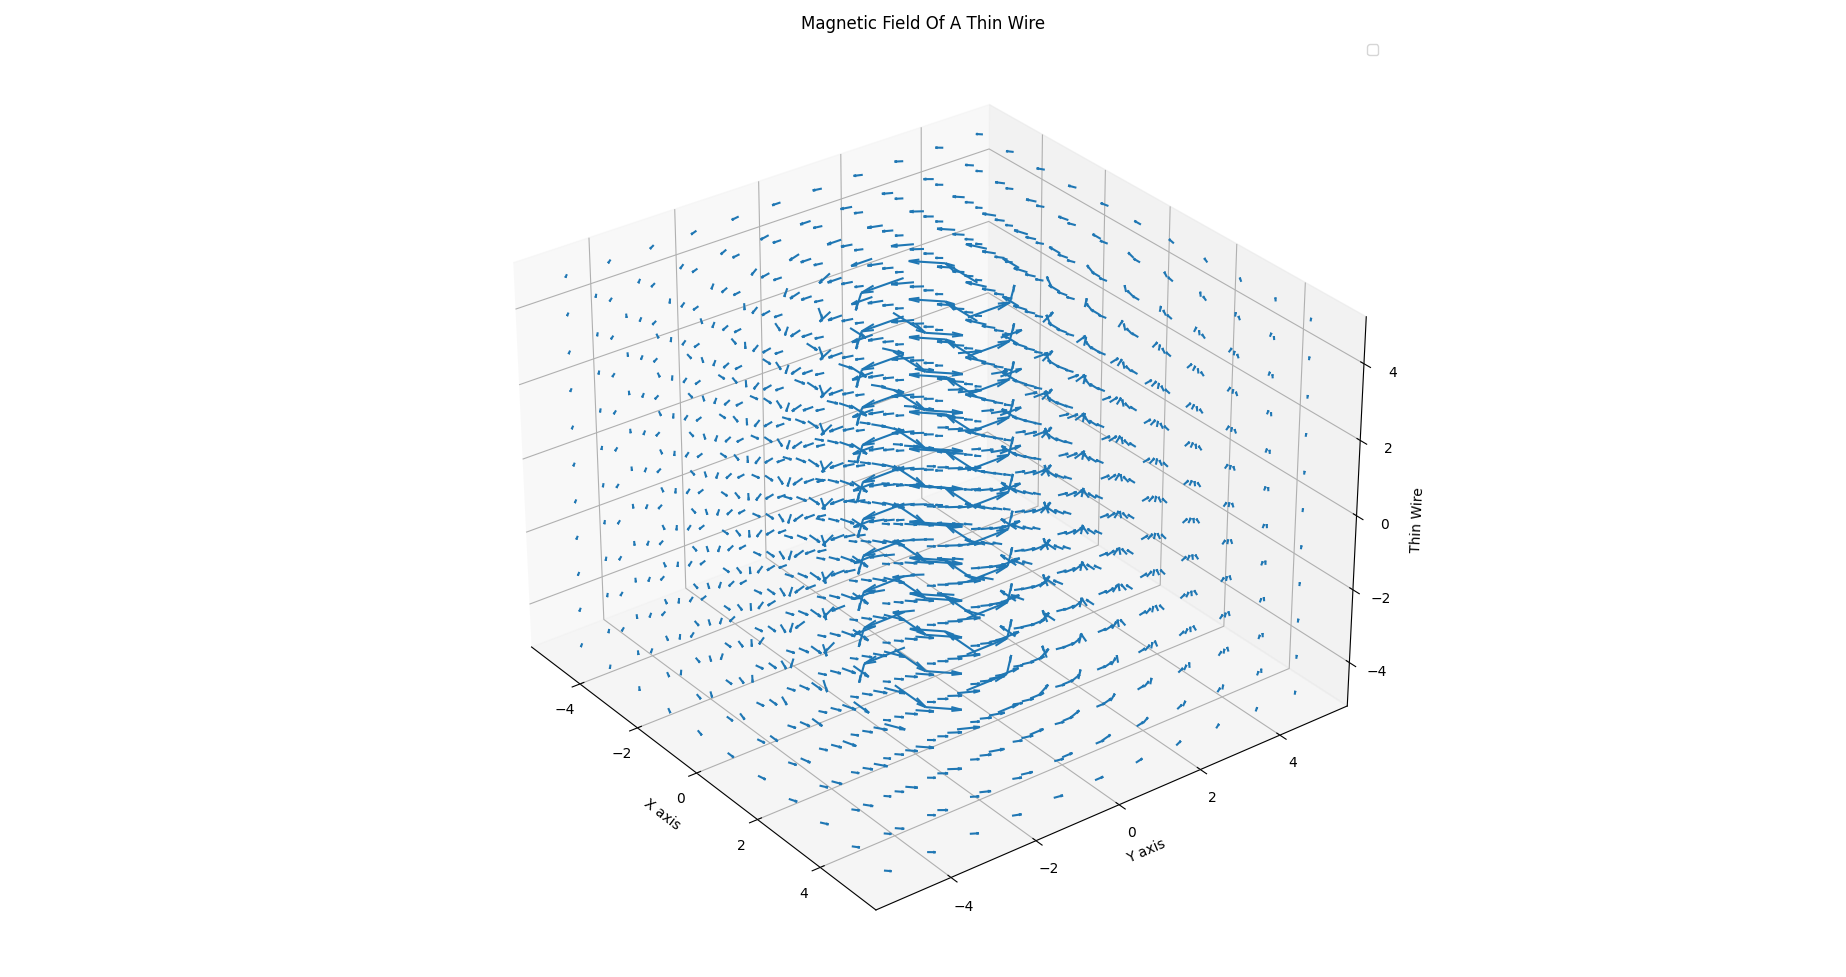
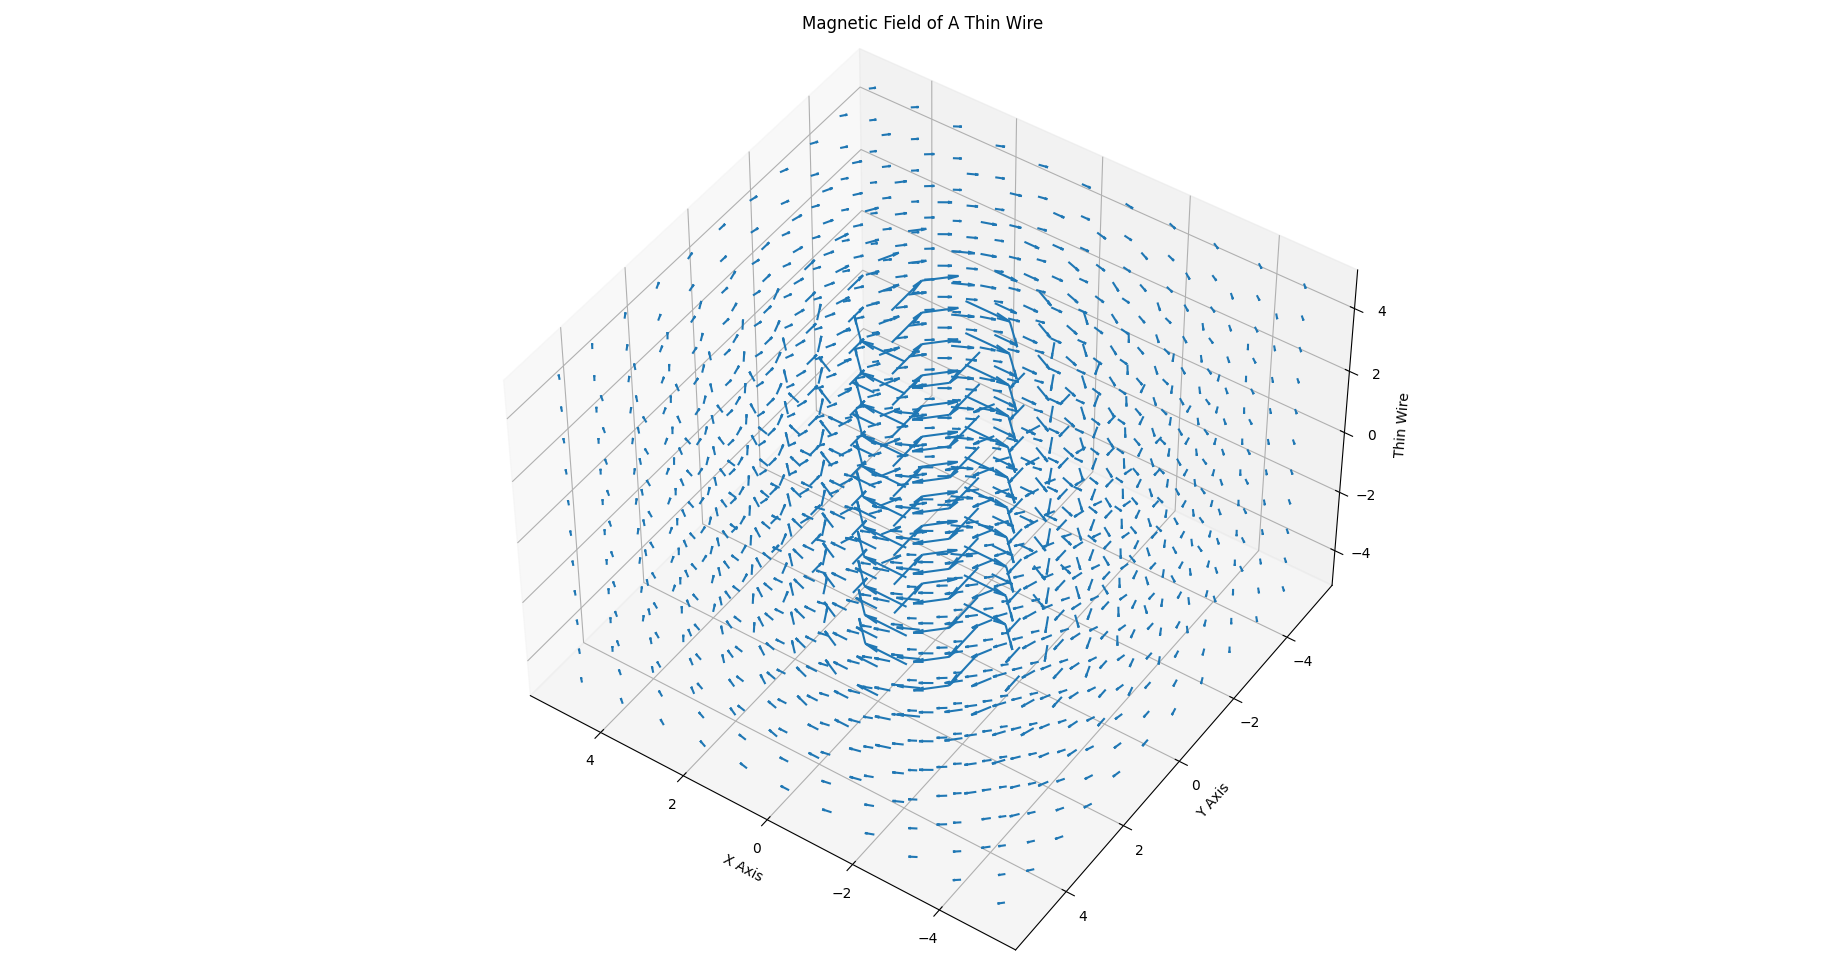
sixth week

diff --git a/DAQ/FeasibilityStudy/document.tex b/DAQ/FeasibilityStudy/document.tex
@@ -1,0 +1,67 @@
+\documentclass[12pt,a4paper]{report}
+\usepackage[utf8]{inputenc}
+\usepackage[T1]{fontenc}
+\usepackage{amsmath}
+\usepackage{amssymb}
+\usepackage{makeidx}
+\usepackage{graphicx}
+\usepackage{float}
+\usepackage{gensymb}
+\usepackage{lmodern,textcomp}
+\title{Temperature Measurement of An FDM 3D Printer Hotend with a PTC
+Thermistor}
+\author{Metin Oktay Yılmaz}
+\begin{document}
+    \maketitle
+
+    \section*{Introduction}
+    An FDM 3D printer can utilize a variety of plastics ranging from PLA to
+    ABS, even TPU. Succesful printing requires a stable temperature at the
+    hotend and build plate. This study will investigate the feasibility of a
+    possible feedback control setup for hotend temperature control.
+
+    \section*{Setup}
+    Following is the moderately-detailed flow diagram of control of a 3D
+    printer hotend:
+    \begin{figure}[H]
+        \centering
+        \includegraphics[scale=0.4]{diagram.png}
+        \caption{The feedback loop that controls a hotend's temperature}
+    \end{figure}
+
+    The feedback loop works as follows:
+    \begin{itemize}
+        \item[1.] The user or the G-Code sets a target temperature for
+        controller.
+        \item[2.] Controller reads the hotend's temperature and calculates the
+        required PWM duty cycle, then applies it to the FET.
+        \item[3.] FET delivers electrical energy to the hotend. This could
+        range from 0 Joules to as many as power supply can withhold. Hotend
+        gains or loses temperature accordingly.
+        \item[4.] Controller reads hotend's temperature again and the loop
+        continues.
+    \end{itemize}
+
+    \section*{Requirement}
+
+    A successful print requires a stable temperature at hotend. A temperature
+    oscillation within the range of $\pm2\degree C$ is acceptable for a stable
+    quality through printing and this is the requirement for this study:
+    Implement a setup where the data acquisition capability allows a
+    temperature control within $\pm2\degree C$ range of setpoint. Also, the
+    budget of the project is 10\texteuro.
+
+    \section*{Approach}
+
+    Firstly, the material properties of hotend and its thermal behavior will be
+    investigated and required control parameters will be determined. Then,
+    controller and FET will be chosen accordingly.
+
+    \section*{Outcome Estimation}
+
+    Given the latest developments in 32-bit controllers and FETs, it is
+    expected that this feasiblity study will return a green light. For example,
+    the latest STM32C0 family MCUs provide 32-bit functionality at 48MHz for
+    as low as 1.6 \$/unit, even they may be an overkill for the project.
+
+\end{document}

diff --git a/FldNmr/second_class/homework_two.py b/FldNmr/second_class/homework_two.py
@@ -1,8 +1,22 @@
+"""
+FH Kaernten
+Systems Design Master 2022 - 2023
+Spring Semester
+Field Numerics
+Homework #2
+
+Visualization of Magnetic Field
+of Current Flowing Through A Thin Wire from +Z to -Z Direction
+
+Metin Oktay Yılmaz
+2210528013
+"""
+
 import numpy as np
 import matplotlib.pyplot as plt
 
-fig = plt.figure()
 XYZ =  np.arange(5, -5.01, -1)
+Z = np.arange(-5, 5.01, 1)
 loc = []
 drc = []
 
@@ -10,13 +24,14 @@ for x in XYZ:
     for y in XYZ:
        for z in XYZ:
            loc.append([x, y, z])
-           drc.append([-y, x, 0])
+           drc.append([y, -x, 0])
 
 loc = np.array(loc).T
 drc = np.array(drc).T
 amp = np.linalg.norm(drc, axis=0)**2
 drc = drc/amp
 
+fig = plt.figure()
 ax = fig.add_subplot(projection='3d')
 ax.quiver(loc[0], loc[1], loc[2], drc[0], drc[1], drc[2])
 plt.show()

diff --git a/DAQ/FeasibilityStudy/block_diagram.py b/DAQ/FeasibilityStudy/block_diagram.py
@@ -1,0 +1,8 @@
+import bdp
+
+t1 = bdp.block('T1')
+t2 = bdp.block('T2').below(t1)
+t3 = bdp.block('T3').left(t2)
+t4 = bdp.block('T4').align(t1.e(0.2), bdp.prev().w(1))
+
+bdp.fig << t1 << t2 << t3 << t4

diff --git a/FldNmr/second_class/magfiel_cylindrical.py b/FldNmr/second_class/magfiel_cylindrical.py
@@ -3,7 +3,6 @@ import matplotlib.pyplot as plt
 
 ts = np.linspace(-5, 5, 10)
 pos, field = [], []
-# posC, fieldC = [], []
 
 for x in ts:
     for y in ts:
